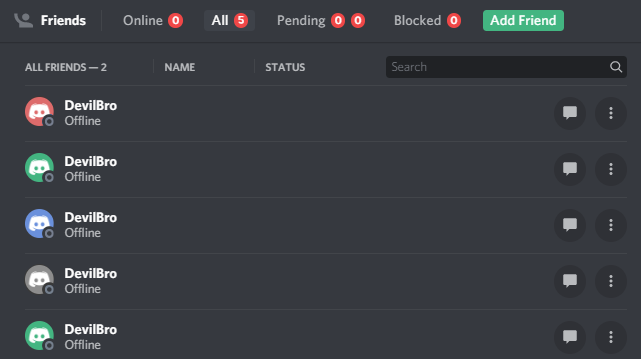
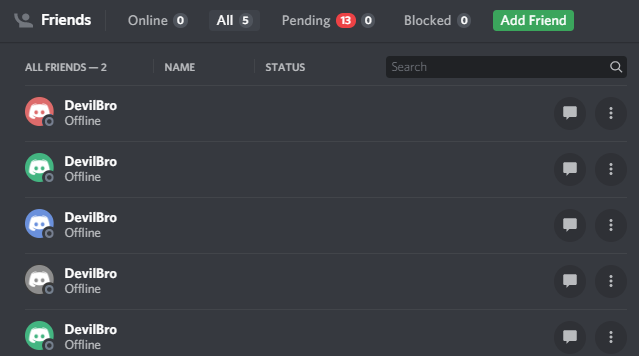
stuff

diff --git a/Plugins/BetterFriendList/BetterFriendList.plugin.js b/Plugins/BetterFriendList/BetterFriendList.plugin.js
@@ -117,6 +117,10 @@ module.exports = (_ => {
 						margin-left: 13px;
 						width: 200px;
 					}
+					${BDFDB.dotCNS.peoplestabbar + BDFDB.dotCN.peoplesbadge} {
+						background-color: var(--background-accent);
+						margin-left: 6px;
+					}
 					${BDFDB.dotCN._betterfriendlisttitle} {
 						width: 200px;
 					}
@@ -185,7 +189,7 @@ module.exports = (_ => {
 								newChildren.push(this.createBadge(BDFDB.LibraryModules.StatusMetaUtils.getOnlineFriendCount()));
 								break;
 							case "PENDING":
-								newChildren.push(this.createBadge(relationshipCount[BDFDB.DiscordConstants.RelationshipTypes.PENDING_INCOMING], this.labels.incoming, relationshipCount[BDFDB.DiscordConstants.RelationshipTypes.PENDING_INCOMING] > 0 && BDFDB.DiscordConstants.Colors.STATUS_RED));
+								newChildren.push(this.createBadge(relationshipCount[BDFDB.DiscordConstants.RelationshipTypes.PENDING_INCOMING], this.labels.incoming, relationshipCount[BDFDB.DiscordConstants.RelationshipTypes.PENDING_INCOMING] > 0));
 								newChildren.push(this.createBadge(relationshipCount[BDFDB.DiscordConstants.RelationshipTypes.PENDING_OUTGOING], this.labels.outgoing));
 								break;
 							case "BLOCKED":
@@ -340,12 +344,11 @@ module.exports = (_ => {
 				}, true));
 			}
 			
-			createBadge (amount, text, color) {
+			createBadge (amount, text, red) {
 				let badge = BDFDB.ReactUtils.createElement(BDFDB.LibraryComponents.Badges.NumberBadge, {
-					className: BDFDB.disCN.peoplesbadge,
+					className: BDFDB.DOMUtils.formatClassName(BDFDB.disCN.peoplesbadge),
 					count: amount,
-					color: color || BDFDB.DiscordConstants.Colors.PRIMARY_DARK,
-					style: {marginLeft: 6}
+					disableColor: !red
 				});
 				return text ? BDFDB.ReactUtils.createElement(BDFDB.LibraryComponents.TooltipContainer, {
 					text: text,
